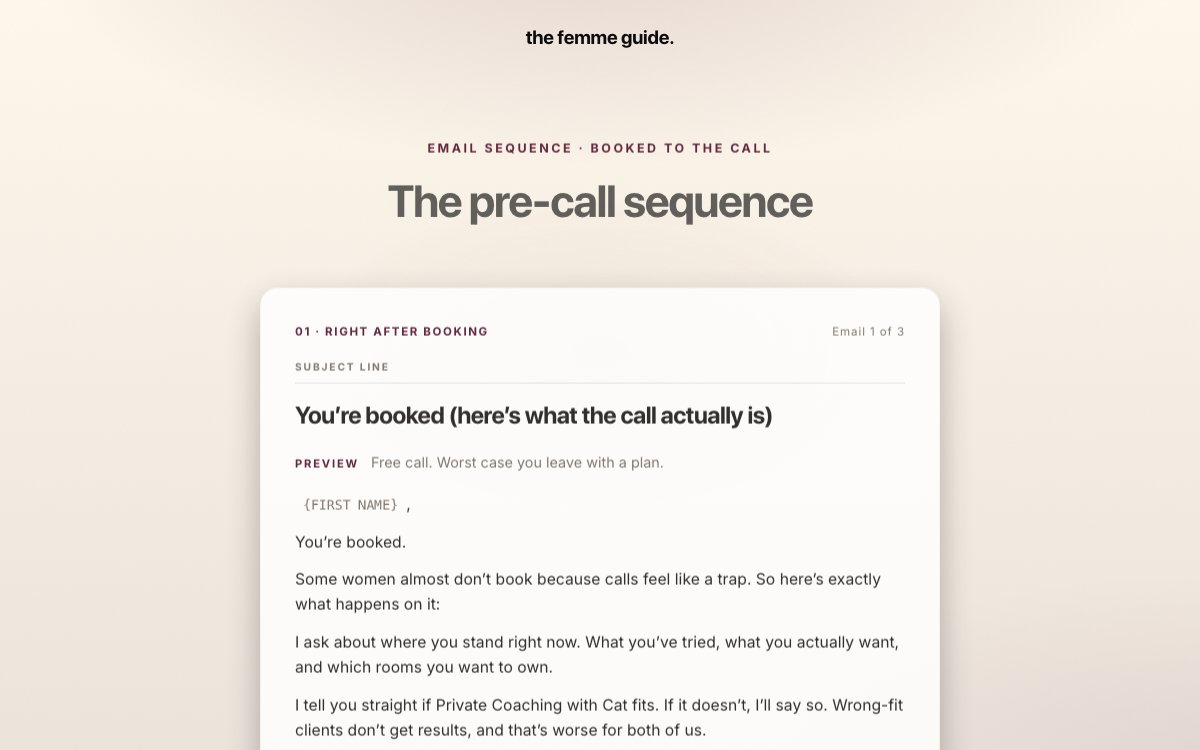
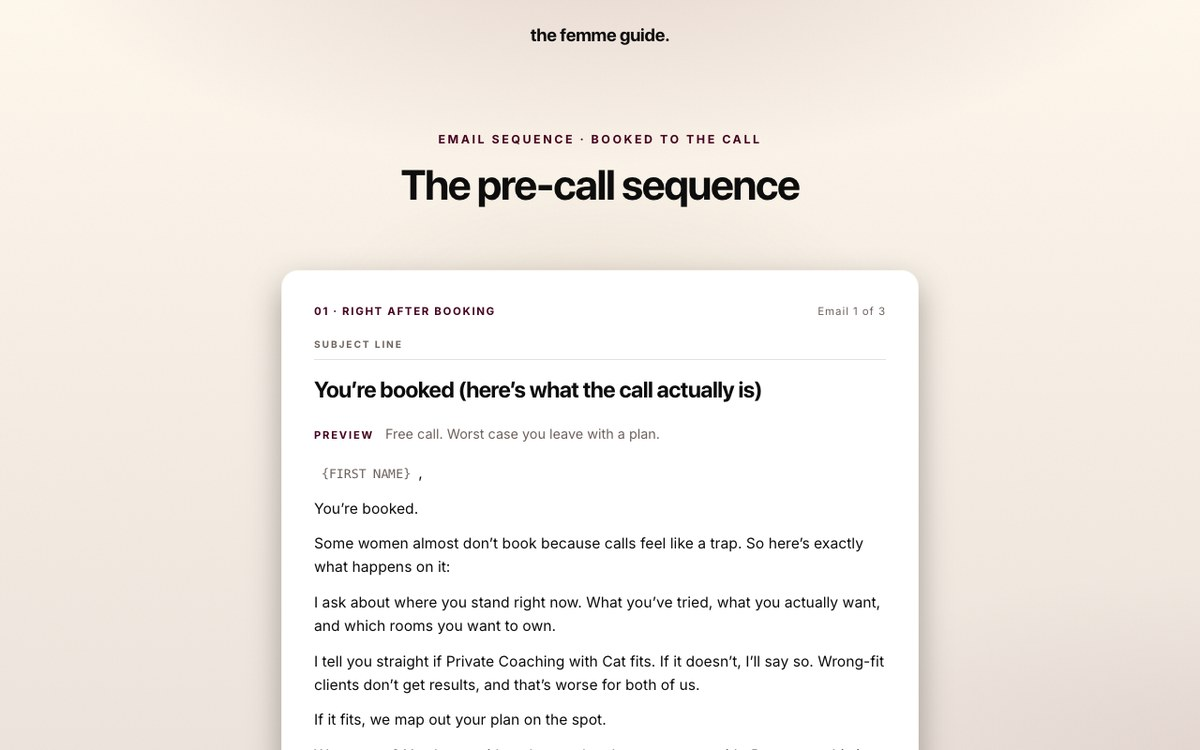
Refresh stale card thumbnails

Changed region(s): [[0.2158, 0.3373, 0.8017, 1.0], [0.3083, 0.184, 0.6783, 0.3067], [0.4317, 0.0307, 0.555, 0.0613]]

diff --git a/index.html b/index.html
@@ -188,11 +188,11 @@
           </div>
           <div class="grid grid--3">
             <button class="pcard reveal" data-title="Your free class sign-up page" data-embed="register/?v=20">
-              <span class="thumb"><span class="thumb__bar"><i></i><i></i><i></i><span class="thumb__url">thefemmeguide.mykajabi.com/free-class</span></span><img class="thumb__img" src="assets/img/register-preview.jpg?v=21" alt="Your free class sign-up page preview" loading="lazy" /></span>
+              <span class="thumb"><span class="thumb__bar"><i></i><i></i><i></i><span class="thumb__url">thefemmeguide.mykajabi.com/free-class</span></span><img class="thumb__img" src="assets/img/register-preview.jpg?v=t2138" alt="Your free class sign-up page preview" loading="lazy" /></span>
               <span class="pcard__body"><span><span class="pcard__kicker">Step 1 · Register</span><span class="pcard__title">Your free class sign-up page</span><span class="pcard__desc">The headline, the 3 steps, your story and real client words. Women save a spot and get your 21-day femininity e-book free.</span></span><span class="pcard__link">Open preview <span class="arrow" aria-hidden="true"></span></span></span>
             </button>
             <button class="pcard reveal" data-title="Your thank-you page" data-embed="thank-you/?v=20">
-              <span class="thumb"><span class="thumb__bar"><i></i><i></i><i></i><span class="thumb__url">thefemmeguide.mykajabi.com/youre-in</span></span><img class="thumb__img" src="assets/img/thankyou-preview.jpg?v=21" alt="Your thank-you page preview" loading="lazy" /></span>
+              <span class="thumb"><span class="thumb__bar"><i></i><i></i><i></i><span class="thumb__url">thefemmeguide.mykajabi.com/youre-in</span></span><img class="thumb__img" src="assets/img/thankyou-preview.jpg?v=t2138" alt="Your thank-you page preview" loading="lazy" /></span>
               <span class="pcard__body"><span><span class="pcard__kicker">Step 2 · Show up</span><span class="pcard__title">Your thank-you page</span><span class="pcard__desc">A short video from you, a calendar add, a reply-yes email and the WhatsApp group where the e-book lands.</span></span><span class="pcard__link">Open preview <span class="arrow" aria-hidden="true"></span></span></span>
             </button>
             <button class="pcard reveal" data-title="Your replay page" data-embed="replay/?v=20">
@@ -240,7 +240,7 @@
               <span class="pcard__body"><span><span class="pcard__kicker">Post-webinar · 5 emails</span><span class="pcard__title">Your post-webinar emails</span><span class="pcard__desc">The replay, Yvonne&rsquo;s story, then Private Coaching with Cat and a private Q&amp;A for women who apply.</span></span><span class="pcard__link">Open preview <span class="arrow" aria-hidden="true"></span></span></span>
             </button>
             <button class="pcard reveal" data-title="Your pre-call emails" data-embed="pre-call/?v=20" data-noanim>
-              <span class="thumb"><span class="thumb__bar"><i></i><i></i><i></i><span class="thumb__url">3 emails · booked to call</span></span><img class="thumb__img" src="assets/img/emails-call-preview.jpg?v=21" alt="Your pre-call emails preview" loading="lazy" /></span>
+              <span class="thumb"><span class="thumb__bar"><i></i><i></i><i></i><span class="thumb__url">3 emails · booked to call</span></span><img class="thumb__img" src="assets/img/emails-call-preview.jpg?v=t2138" alt="Your pre-call emails preview" loading="lazy" /></span>
               <span class="pcard__body"><span><span class="pcard__kicker">Pre-call · 3 emails</span><span class="pcard__title">Your pre-call emails</span><span class="pcard__desc">What the call actually is, a real client&rsquo;s words, and the reminder, so they show up ready.</span></span><span class="pcard__link">Open preview <span class="arrow" aria-hidden="true"></span></span></span>
             </button>
           </div>
